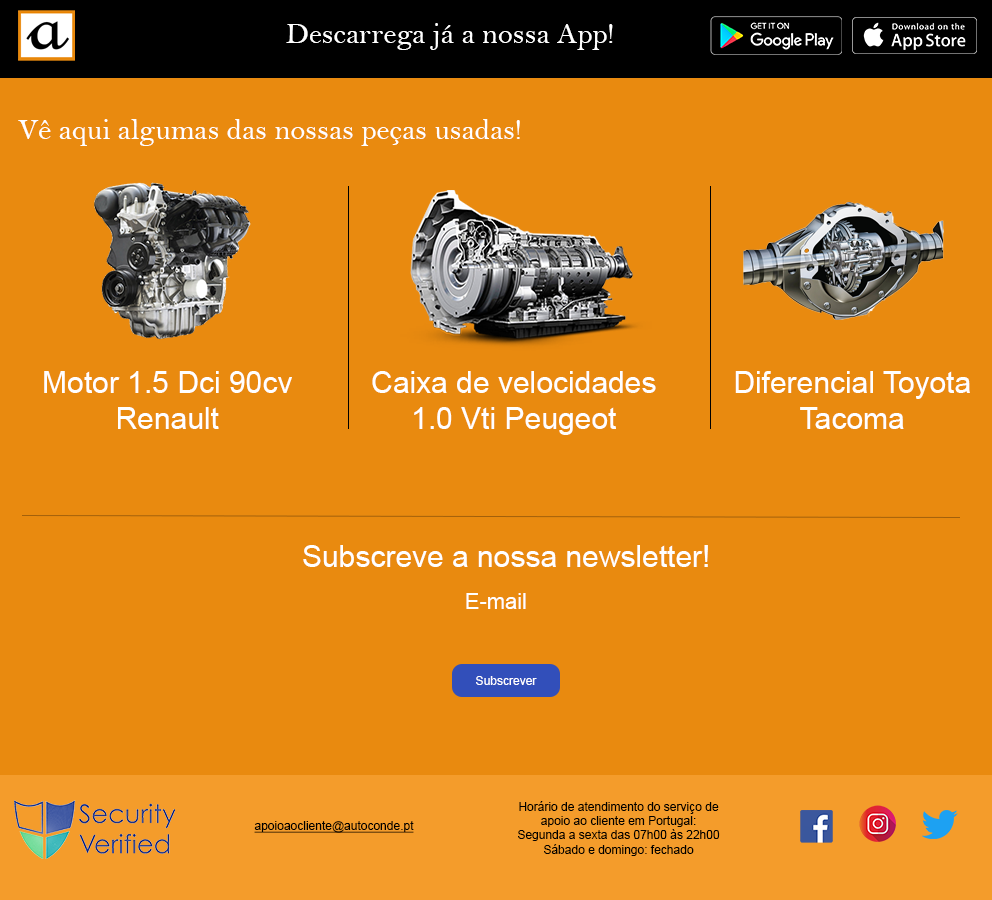
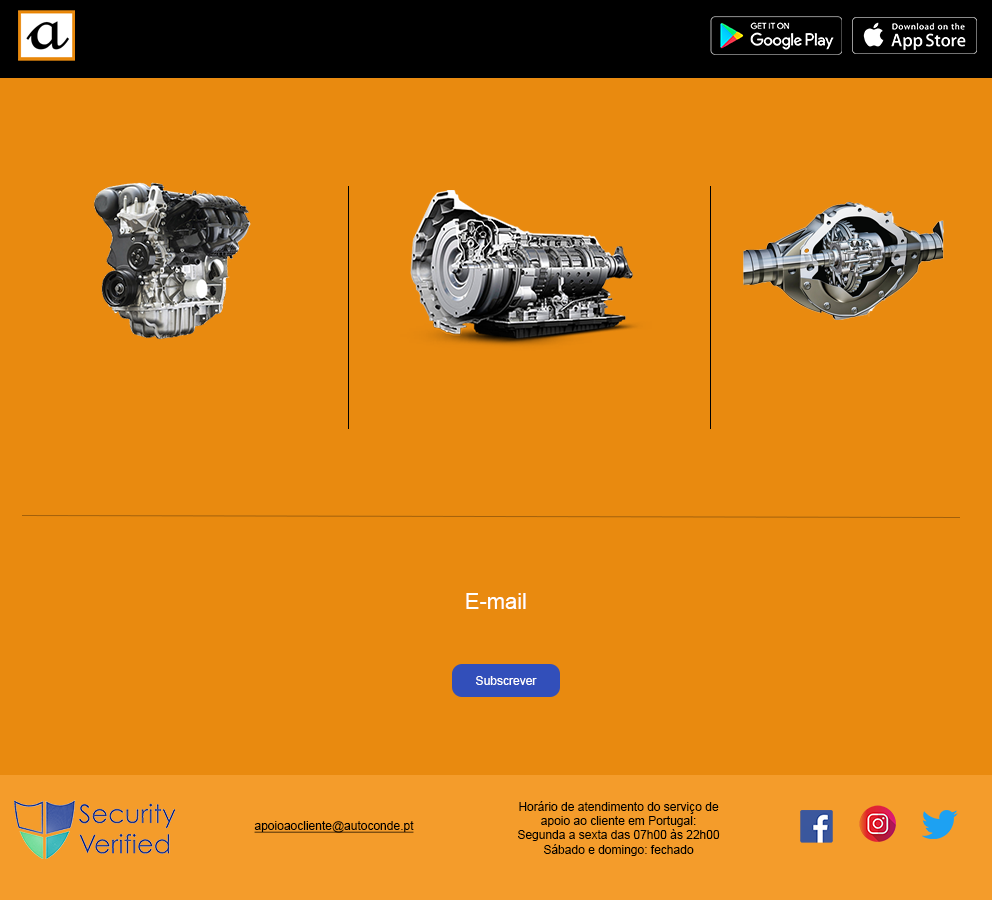
rodapé

diff --git a/css/contactos.css b/css/contactos.css
@@ -139,6 +139,8 @@ a:hover {
 .body{
     text-align: center;    
 }
+/*---Aqui está a estilização do rodapé para todas as páginas.---*/
+
 .rodape{
     clear: both;
     position: relative;
@@ -152,6 +154,52 @@ a:hover {
     left: 590px;
     top: -260px;
 }
+#text_descarrega{
+    font-size: 20pt;
+    color: white;
+    position: relative;
+    top: -885px;
+    left: 400px;
+}
+#text_usadas{
+    font-size: 20pt;
+    color: white;
+    position: relative;
+    top: -820px;
+    left: 200px;
+}
+#text_renault{
+    font-size: 22pt;
+    color: white;
+    position: relative;
+    top: -660px;
+    left: -600px;
+    text-align: center;
+}
+#text_peugeot{
+    font-size: 22pt;
+    color: white;
+    position: relative;
+    top: -730px;
+    left: -250px;
+    text-align: center;
+}
+#text_toyota{
+    font-size: 22pt;
+    color: white;
+    position: relative;
+    top: -800px;
+    left: 80px;
+    text-align: center;
+}
+#text_news{
+    font-size: 25pt;
+    color: white;
+    position: relative;
+    top: -430px;
+    left: 480px;
+}
+/*---O rodapé termina aqui.---*/
 .corpo_contactos{
     text-align: center;    
 }
@@ -196,6 +244,7 @@ a:hover {
     text-align: justify;
     position: relative;
     left: 5px;
+    font-weight: bold;
 
 }
 #cabeçalho{
@@ -205,11 +254,9 @@ a:hover {
 #logo_informaçoes{
     position: relative;
     width: 250px;
-    top: 185px;
+    top: 100px;
     border-radius: 6px;
-    left: 104px;
-
-
+    left: -100px;
 }
 #logo_numero{
     background-color:#e98a0f;
@@ -217,7 +264,7 @@ a:hover {
     border-radius: 8px;
     width: 210px;
     top: 100px;
-    left: -130px;
+    left: 90px;
 }
 .serviço{
     width: 230px;
@@ -226,4 +273,21 @@ a:hover {
     top: -665px;
     left: 460px;
     font-family: Georgia, 'Times New Roman', Times, serif;
+}
+
+#text_localizaçao{
+    font-family: -apple-system, BlinkMacSystemFont, 'Segoe UI', Roboto, Oxygen, Ubuntu, Cantarell, 'Open Sans', 'Helvetica Neue', sans-serif;
+    position: relative;
+    left: -260px;
+    font-weight: bold;
+}
+#rua{
+    font-family: -apple-system, BlinkMacSystemFont, 'Segoe UI', Roboto, Oxygen, Ubuntu, Cantarell, 'Open Sans', 'Helvetica Neue', sans-serif;
+    position: relative;
+    left: -200px;
+}
+#subtitle{
+    text-align: justify;
+    position: relative;
+    left: 10px;
 }

diff --git a/html/contactos.html b/html/contactos.html
@@ -102,6 +102,13 @@
         <a href="autoconde.html">
             <img src="../img/Capturar.PNG" id="fundo">
         </a>
+        <p id="text_descarrega">Descarrega já a nossa App!</p>
+        <p id="text_usadas">Vê aqui algumas das nossas peças usadas!</p>
+        <p id="text_news">Subscreve a nossa newsletter!</p>
+        <p id="text_renault">Motor 1.5 Dci 90cv<br>Renault</p>
+        <p id="text_peugeot">Caixa de Velocidades<br>1.0 Vti Peugeot</p>
+        <p id="text_toyota">Diferencial Toyota<br>Tacoma</p>
+        
     </footer>
 
     <div class="corpo_contactos">
@@ -123,7 +130,11 @@
                 <br>
                 <p id="text">Peças não disponíveis no site:</p>
                 <br>
-                <p id="text">Envie um email para apoioaocliente@autoconde.pt com a matrícula do seu veículo e as peças que deseja, que no prazo máximo de 24h (dias úteis) é contactado pela nossa equipa.</p>
+                <p id="subtitle">Envie um email para apoioaocliente@autoconde.pt com a matrícula do seu veículo e as peças que deseja,<br> que no prazo máximo de 24h (dias úteis) é contactado pela nossa equipa.</p>
+                <br>
+                <p id='text_localizaçao'>Onde nos pode encontrar?</p>
+                <br>
+                <p id="rua">Rua Dom Sancho I, 4480-876, Vila do Conde</p>
                 <img src="../img/Auto_Conde.png" id="logo_informaçoes">
                 <img src="../img/numero_cliente.png" id="logo_numero">
             </section>
@@ -131,6 +142,7 @@
                 <h1>Contacte-nos</h1>
                 <br>
                 <p>É importante para nós garantir-lhe o melhor serviço possível. Assim sendo, o serviço de apoio é fundamental na empresa Auto Conde. Qualquer dúvida não hesite em contactar-nos.</p>
+                
             </section>
 
         </div>

diff --git a/css/autocondestyles.css b/css/autocondestyles.css
@@ -251,6 +251,8 @@ a:hover {
     height: 90px;
 }
 
+/*---Aqui está a estilização do rodapé para todas as páginas.---*/
+
 .rodape{
     clear: both;
     position: relative;
@@ -264,4 +266,49 @@ a:hover {
     left: 590px;
     top: -260px;
 }
-
+#text_descarrega{
+    font-size: 20pt;
+    color: white;
+    position: relative;
+    top: -885px;
+    left: 400px;
+}
+#text_usadas{
+    font-size: 20pt;
+    color: white;
+    position: relative;
+    top: -820px;
+    left: 200px;
+}
+#text_renault{
+    font-size: 22pt;
+    color: white;
+    position: relative;
+    top: -660px;
+    left: -600px;
+    text-align: center;
+}
+#text_peugeot{
+    font-size: 22pt;
+    color: white;
+    position: relative;
+    top: -730px;
+    left: -250px;
+    text-align: center;
+}
+#text_toyota{
+    font-size: 22pt;
+    color: white;
+    position: relative;
+    top: -800px;
+    left: 80px;
+    text-align: center;
+}
+#text_news{
+    font-size: 25pt;
+    color: white;
+    position: relative;
+    top: -430px;
+    left: 480px;
+}
+/*---O rodapé termina aqui.---*/

diff --git a/html/autoconde.html b/html/autoconde.html
@@ -23,7 +23,9 @@
         </a>
         <br>
         <input type="search" name="Pesquisa" id="pesquisa">
-        <button type="submit" id="search">Pesquisar</button>
+        <a href="oleo1.html">
+            <button type="submit" id="search">Pesquisar</button>
+        </a>
         <br>
         <ul class="menu">
             <li class='dropdown'><span>Baterias &#9662;</span>
@@ -169,6 +171,13 @@
         <a href="autoconde.html">
             <img src="../img/Capturar.PNG" id="fundo">
         </a>
+        <p id="text_descarrega">Descarrega já a nossa App!</p>
+        <p id="text_usadas">Vê aqui algumas das nossas peças usadas!</p>
+        <p id="text_news">Subscreve a nossa newsletter!</p>
+        <p id="text_renault">Motor 1.5 Dci 90cv<br>Renault</p>
+        <p id="text_peugeot">Caixa de Velocidades<br>1.0 Vti Peugeot</p>
+        <p id="text_toyota">Diferencial Toyota<br>Tacoma</p>
+        
     </footer>
 
 

diff --git a/css/produtos.css b/css/produtos.css
@@ -166,11 +166,4 @@ a:hover {
     width: 70px;
     right: 200px;
 }
-.rodape{
-    clear: both;
-    position: relative;
-    height: 200px;
-    margin-top: -200px;
-    top: 500px;
-    left: 454px;
-}
+

diff --git a/html/acessorio.html b/html/acessorio.html
@@ -120,9 +120,6 @@
         </div>
     </div>
     </div>
-    <footer class="rodape">
-        <img src="../img/Capturar.PNG" id="fundo">
-    </footer>
     
 
 
